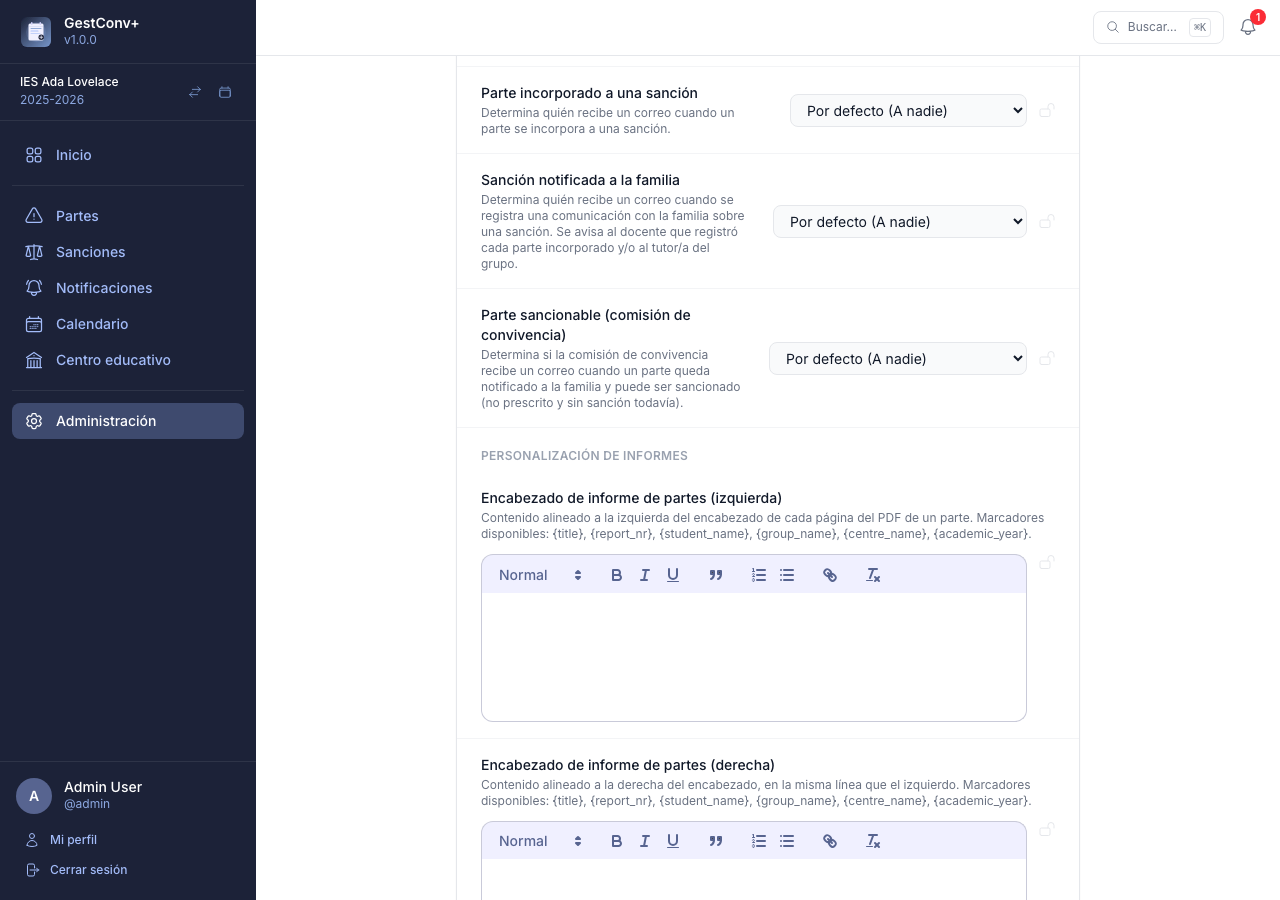
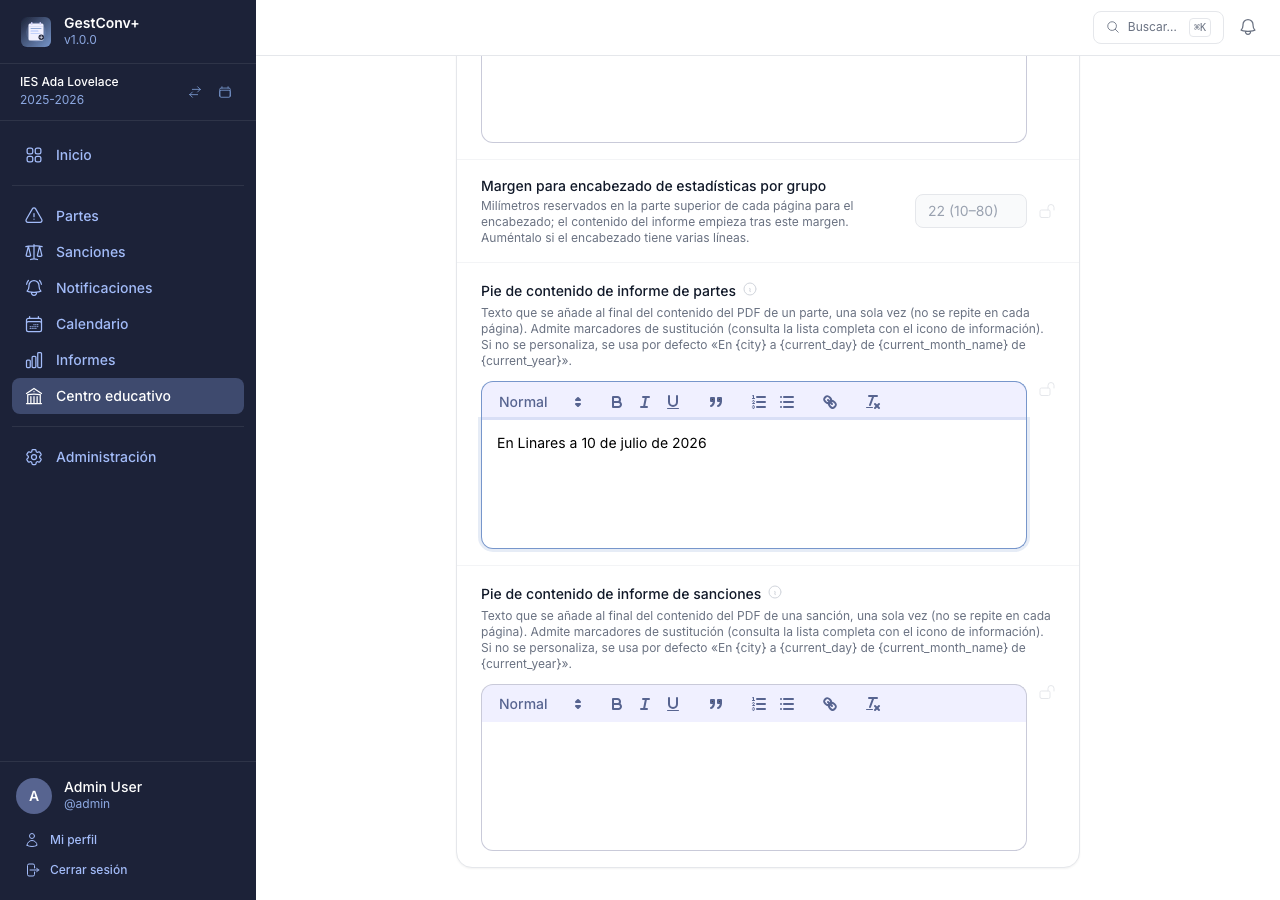
docs: revisa orden y lenguaje del manual, actualiza capturas
Corrige el orden Plesk/Ubuntu Server en 01-instalacion-y-requisitos.md
para que coincida con 09-despliegue.md, y elimina un nombre de clase
interno filtrado en el glosario. Añade capturas de las secciones de
Ubicaciones y del formulario de alta de docentes, que no tenían
ninguna, y actualiza la de personalización de informes para mostrar
el campo de pie de contenido. Incluye el script de Playwright usado
para generarlas.

diff --git a/docs/manual/01-instalacion-y-requisitos.md b/docs/manual/01-instalacion-y-requisitos.md
@@ -6,8 +6,8 @@ GestConv+ puede ejecutarse de cinco formas, según la infraestructura disponible
 |------|---------------|------------|----------|
 | **Binario nativo** (FrankenPHP) | SQLite | Un centro, sin infraestructura | Mínimo |
 | **Docker Compose** | PostgreSQL | Servidor / producción | Medio |
-| **Ubuntu Server 26.04** (FrankenPHP + systemd) | PostgreSQL | VPS Ubuntu, sin Docker | Medio |
 | **Plesk** (PHP-FPM) | MySQL/MariaDB o PostgreSQL | VPS con Plesk, sin Docker | Medio |
+| **Ubuntu Server 26.04** (FrankenPHP + systemd) | PostgreSQL | VPS Ubuntu, sin Docker | Medio |
 | **Desarrollo local** | PostgreSQL, MySQL/MariaDB o SQLite | Contribuir al proyecto | Para perfiles técnicos |
 
 En binario nativo, Docker y Ubuntu Server las **migraciones se aplican automáticamente** al arrancar;
@@ -24,8 +24,8 @@ en Plesk y desarrollo local hay que ejecutarlas manualmente.
 |------|------------|
 | Binario nativo | Sin requisitos adicionales (todo incluido) |
 | Docker | Docker Engine 24+ y Docker Compose v2 |
-| Ubuntu Server 26.04 | Ubuntu 26.04 LTS, acceso SSH con sudo y un dominio apuntando al servidor |
 | Plesk | PHP 8.4 FPM, extensiones estándar, MySQL 8+ / MariaDB 10.6+ (o PostgreSQL 12+), Composer, acceso SSH |
+| Ubuntu Server 26.04 | Ubuntu 26.04 LTS, acceso SSH con sudo y un dominio apuntando al servidor |
 | Desarrollo local | PHP 8.4+, Composer, PostgreSQL 16+, MySQL 8+ / MariaDB 11+ o SQLite |
 
 ## Guías de instalación
@@ -35,6 +35,6 @@ Las instrucciones detalladas de cada modo están en el capítulo [Despliegue](09
 - [Prueba rápida en tu ordenador](09-despliegue.md#prueba-rapida-en-tu-ordenador-sin-conocimientos-tecnicos) — sin conocimientos técnicos, con datos de ejemplo listos para explorar
 - [Binario nativo](09-despliegue.md#ejecucion-como-binario-nativo) — un solo ejecutable, ideal para un centro sin infraestructura
 - [Docker Compose](09-despliegue.md#despliegue-con-docker) — producción con HTTPS automático y base de datos robusta
-- [Ubuntu Server 26.04](09-despliegue.md#despliegue-en-ubuntu-server-2604) — script de instalación automatizada, sin Docker
 - [Plesk](09-despliegue.md#despliegue-en-plesk) — VPS ya gestionado con Plesk, sin necesidad de Docker
+- [Ubuntu Server 26.04](09-despliegue.md#despliegue-en-ubuntu-server-2604) — script de instalación automatizada, sin Docker
 - [Desarrollo local](09-despliegue.md#desarrollo-local) — ejecutar desde el código fuente para contribuir al proyecto

diff --git a/docs/manual/05-secciones-de-la-aplicacion.md b/docs/manual/05-secciones-de-la-aplicacion.md
@@ -146,6 +146,8 @@ Los botones **Exportar JSON** e **Importar JSON** permiten copiar la configuraci
 
 Los administradores de centro configuran en **Centro educativo › Ubicaciones** el catálogo de lugares donde puede haber ocurrido un incidente (por ejemplo *En clase*, *Recreo* o *Entrada/Salida*), organizadas en categorías igual que las conductas contrarias. Este catálogo es el que se ofrece, agrupado por categoría, en el campo obligatorio **Dónde sucedió** al registrar o editar un parte (ver [Registrar un nuevo parte](#registrar-un-nuevo-parte)).
 
+![Administración de ubicaciones](img/partes/admin-ubicaciones.png)
+
 Para cada ubicación se puede:
 
 - Activarla o desactivarla (solo las activas se pueden seleccionar al registrar un parte).
@@ -400,6 +402,8 @@ Detalles del listado, sus filtros y el ajuste que lo activa o desactiva en
 ### Docentes
 
 La tarjeta **Docentes** del panel de administración global permite crear y editar cualquier cuenta de docente del servidor, con independencia del centro al que pertenezca. Solo la ven los administradores globales.
+
+![Formulario de alta de un docente](img/admin/admin-docente-formulario.png)
 
 El formulario de alta y edición incluye, además del nombre, apellidos, usuario y correo electrónico, tres opciones presentadas como pares de botones de radio en cajas:
 

diff --git a/docs/manual/12-glosario.md b/docs/manual/12-glosario.md
@@ -46,7 +46,7 @@ Periodo lectivo (por ejemplo, 2025-2026) dentro de un centro. Puede haber varios
 **Oferta formativa**
 Conjunto de programas de estudio (enseñanzas) disponibles en el centro para un curso académico.
 
-**Nivel / ProgrammeYear**
+**Nivel**
 Cada curso dentro de una enseñanza (por ejemplo, *1º* y *2º* de un ciclo formativo).
 
 **Grupo**